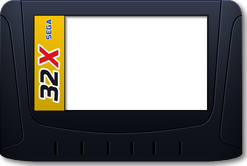
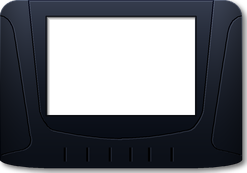
32X frame without the yellow band, SEGA CD caption
- Game Selection: the 32X cartridge frame shows the game screenshot as
  its whole label (150x100), without the yellow 32X band.
- Load Game: the CD icon is captioned SEGA CD (was the MEGA-CD logo).
- 1.2.0 beta 5.

Claude-Session: https://claude.ai/code/session_015P7Pk7ipBWD5gtB2gsZH3e

diff --git a/gx/gui/filesel.c b/gx/gui/filesel.c
@@ -120,19 +120,19 @@ static gui_image bg_filesel[15] =
   {NULL,NULL,0,392,118,232,148,255},
   {NULL,NULL,0,414,116,184,188,255},
   {NULL,NULL,0,416,144,180,228,255},
-  {NULL,NULL,0,386,140,247,166,255}
+  {NULL,NULL,0,386,137,247,173,255}
 };
 
 /* Screenshot area (bg_filesel[7] and [8]): the label of the cartridge, smaller
-   on the 32X one (next to the yellow band of its label) */
+   on the 32X one */
 #define SNAP_X 424
 #define SNAP_Y 148
 #define SNAP_W 160
 #define SNAP_H 112
-#define SNAP_32X_X (386 + 64)
-#define SNAP_32X_Y (140 + 15)
-#define SNAP_32X_W 144
-#define SNAP_32X_H 96
+#define SNAP_32X_X (386 + 46)
+#define SNAP_32X_Y (137 + 16)
+#define SNAP_32X_W 150
+#define SNAP_32X_H 100
 
 static void set_snap_area(int type)
 {

diff --git a/gx/osd.h b/gx/osd.h
@@ -78,7 +78,7 @@
 
 /*************************************************/
 
-#define VERSION "Genesis Plus GX ULTIMATE 1.2.0 beta 4" /* based on Genesis Plus GX 1.7.5 */
+#define VERSION "Genesis Plus GX ULTIMATE 1.2.0 beta 5" /* based on Genesis Plus GX 1.7.5 */
 
 #define VIDEO_WAIT    0x01
 #define AUDIO_WAIT    0x02
